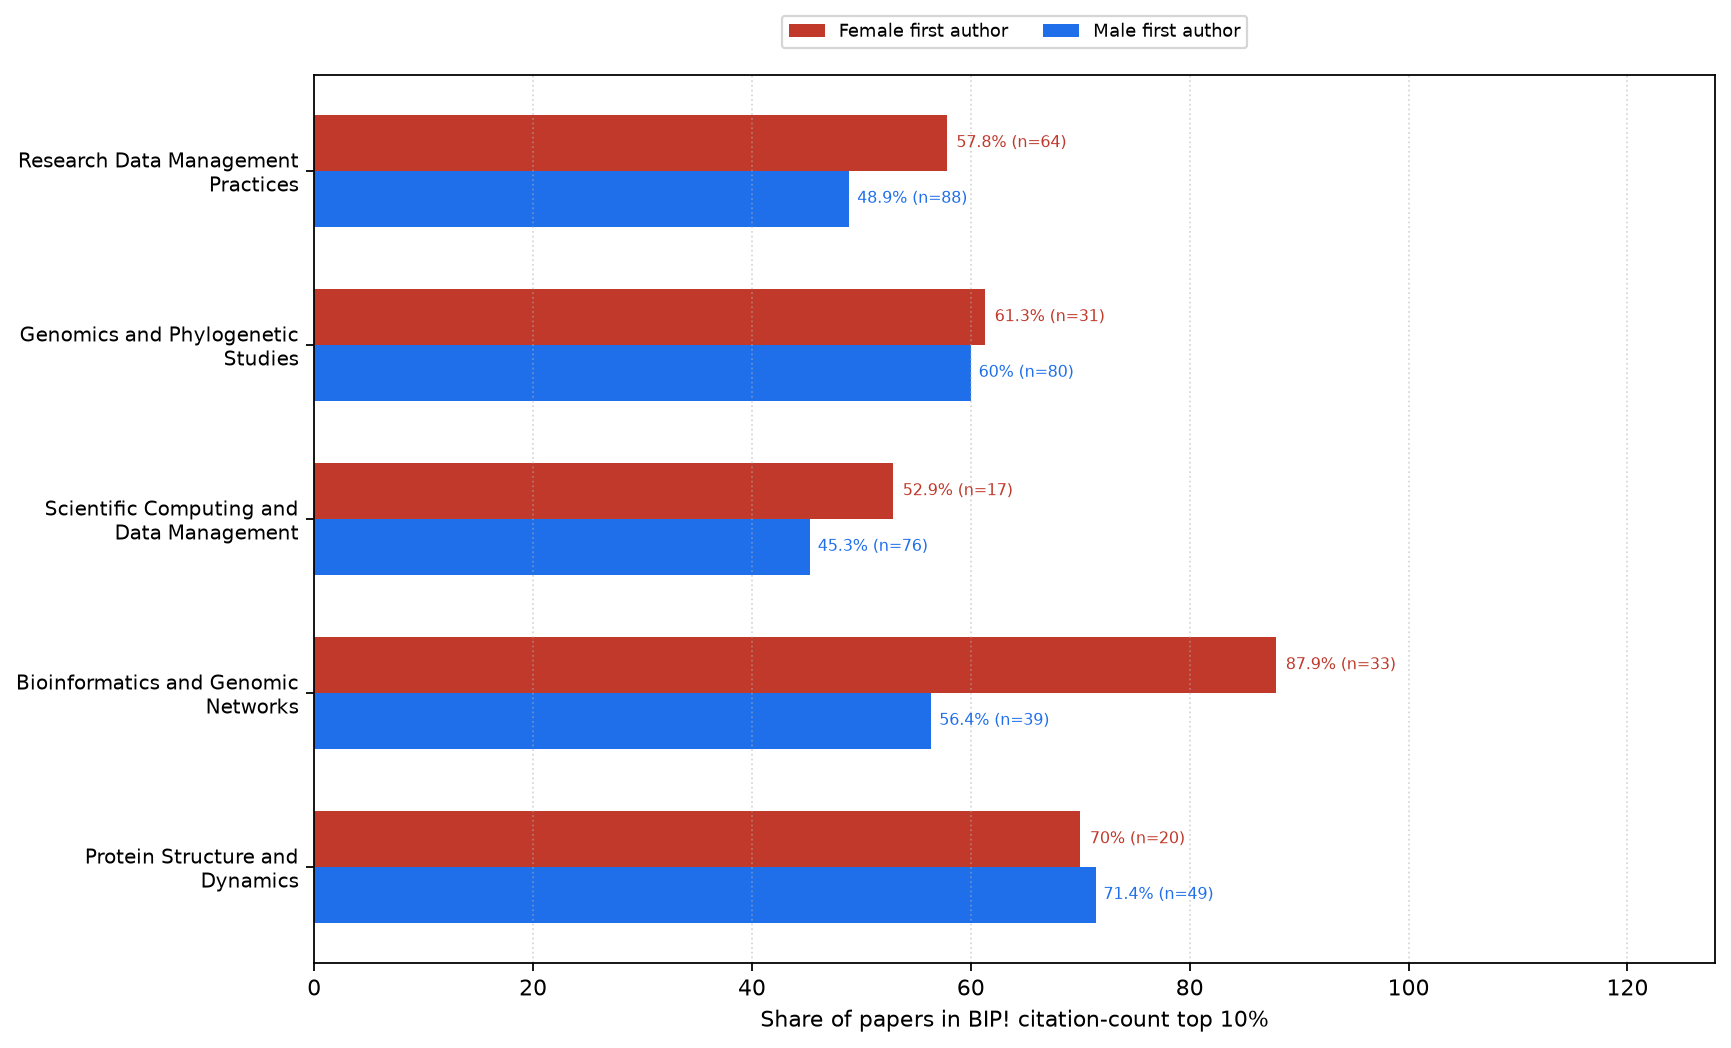
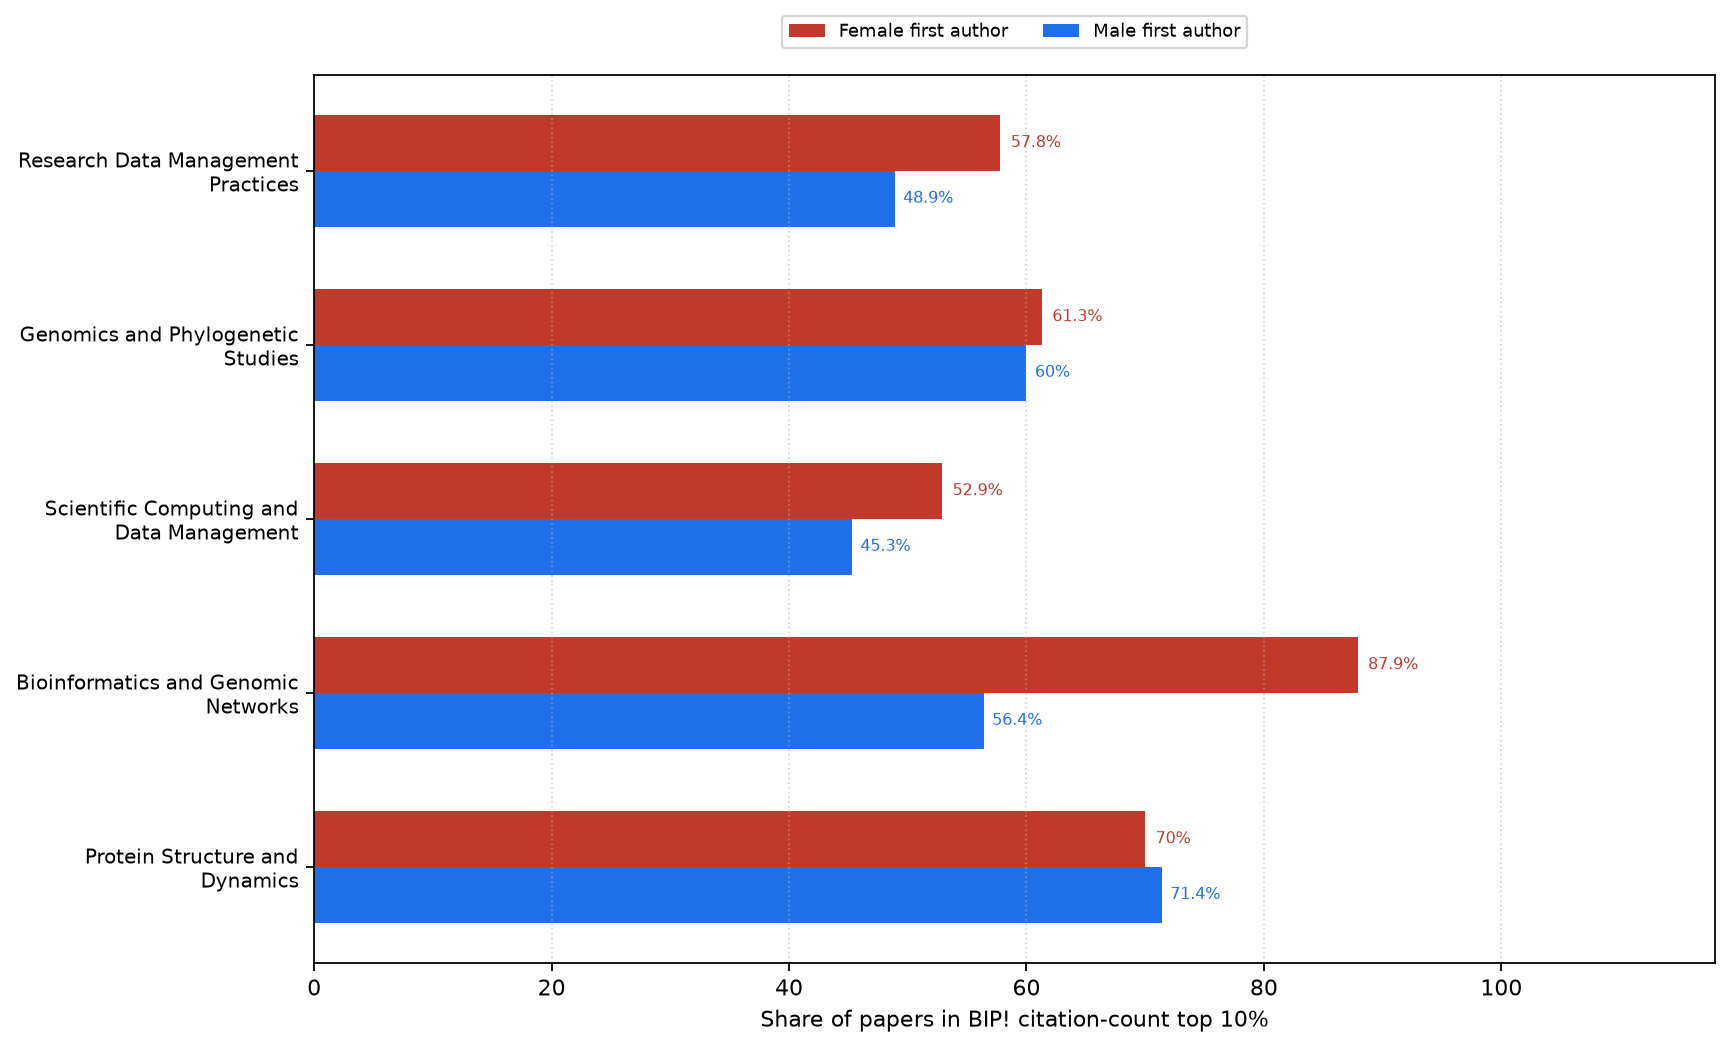
Drop sample-size labels from gender BIP! indicator bars.
Keep subset sizes in the topics table so the bar axis stays a single statistic.

diff --git a/topic_analysis/scripts/compare_topic_gender_bip.py b/topic_analysis/scripts/compare_topic_gender_bip.py
@@ -147,19 +147,17 @@ def make_count_figures(count_rows: list[dict], topics: list[str], out_dir: Path)
     return paths
 
 
-def format_stat_annotation(stat: str, value: float, n: int) -> str:
-    """Value on the axis scale, plus paper count in parentheses (not on the axis)."""
+def format_stat_annotation(stat: str, value: float) -> str:
+    """Value on the axis scale (no sample size)."""
     if stat.startswith("pct_"):
-        val_s = f"{value:.0f}%" if float(value).is_integer() else f"{value:.1f}%"
-    elif stat.startswith("median_") and stat in {"median_impulse", "median_cc"}:
-        val_s = f"{value:.0f}" if float(value).is_integer() else f"{value:.1f}"
-    else:
-        val_s = f"{value:.3g}"
-    return f"{val_s} (n={n})"
+        return f"{value:.0f}%" if float(value).is_integer() else f"{value:.1f}%"
+    if stat.startswith("median_") and stat in {"median_impulse", "median_cc"}:
+        return f"{value:.0f}" if float(value).is_integer() else f"{value:.1f}"
+    return f"{value:.3g}"
 
 
 def make_indicator_bar_figures(stat_rows: list[dict], topics: list[str], out_dir: Path) -> list[Path]:
-    """Grouped bars: x = BIP! statistic; annotation = value + paper count n."""
+    """Grouped bars: x = BIP! statistic; annotation = value only."""
     import matplotlib.pyplot as plt
     import numpy as np
 
@@ -178,25 +176,23 @@ def make_indicator_bar_figures(stat_rows: list[dict], topics: list[str], out_dir
         y = np.arange(len(topics))
         for i, g in enumerate(GENDER_PLOT):
             vals = []
-            ns = []
             for topic in topics:
                 row = by_key.get((topic, g))
                 v = to_float(row.get(stat)) if row else None
-                n = int(row["n_papers"]) if row else 0
                 vals.append(0.0 if v is None else v)
-                ns.append(n)
             offset = (i - 0.5) * height
             bars = ax.barh(
                 y + offset, vals, height=height,
                 color=GENDER_COLORS[g], label=f"{g.capitalize()} first author",
             )
-            for bar, v, n in zip(bars, vals, ns):
-                if n <= 0:
+            for j, (bar, v) in enumerate(zip(bars, vals)):
+                row = by_key.get((topics[j], g))
+                if not row or int(row["n_papers"]) <= 0:
                     continue
                 ax.text(
-                    bar.get_width() + max(vals) * 0.01,
+                    bar.get_width() + max(vals + [1]) * 0.01,
                     bar.get_y() + bar.get_height() / 2,
-                    format_stat_annotation(stat, v, n),
+                    format_stat_annotation(stat, v),
                     va="center", fontsize=7, color=GENDER_COLORS[g],
                 )
         ax.set_yticks(y)
@@ -205,16 +201,15 @@ def make_indicator_bar_figures(stat_rows: list[dict], topics: list[str], out_dir
         ax.set_xlabel(label)
         ax.grid(axis="x", linestyle=":", alpha=0.5)
         ax.legend(loc="lower center", bbox_to_anchor=(0.5, 1.02), ncol=2, fontsize=8, frameon=True)
-        # room for "value (n=…)" annotations to the right of bars
         data_max = max(
             (to_float(by_key[(t, g)].get(stat)) or 0.0)
             for t in topics for g in GENDER_PLOT
             if (t, g) in by_key
         )
         if stat.startswith("pct_"):
-            ax.set_xlim(0, max(100, data_max) * 1.28)
+            ax.set_xlim(0, max(100, data_max) * 1.18)
         else:
-            ax.set_xlim(0, (data_max * 1.28) if data_max > 0 else 1)
+            ax.set_xlim(0, (data_max * 1.18) if data_max > 0 else 1)
         fig.tight_layout()
         path = out_dir / f"bars_{stat}.png"
         fig.savefig(path, dpi=160, bbox_inches="tight")
@@ -288,11 +283,10 @@ def write_report(
         "## BIP! indicator figures",
         "",
         "Grouped bars compare female vs male first-author subsets within each "
-        "topic. The **bar length / x-axis** is the BIP! statistic. The label "
-        "next to each bar shows that same value plus **n = number of papers** "
-        "in that gender×topic subset (sample size used to compute the "
-        "statistic — not an x-axis quantity). Unknown-gender papers are "
-        "excluded from these plots.",
+        "topic. The **bar length / x-axis** is the BIP! statistic; the label "
+        "next to each bar repeats that value. Unknown-gender papers are "
+        "excluded from these plots (subset sizes are in the topics table "
+        "above).",
         "",
     ]
     for p in bar_figs:

diff --git a/topic_analysis/results/topic_gender_report.md b/topic_analysis/results/topic_gender_report.md
@@ -34,31 +34,31 @@ Paper counts and percentage shares by first-author gender within each topic (unk
 
 ## BIP! indicator figures
 
-Grouped bars compare female vs male first-author subsets within each topic. The **bar length / x-axis** is the BIP! statistic. The label next to each bar shows that same value plus **n = number of papers** in that gender×topic subset (sample size used to compute the statistic — not an x-axis quantity). Unknown-gender papers are excluded from these plots.
-
-### Median BIP! citation count
-
-![Median BIP! citation count](topic_gender_figures/bars_median_cc.png)
+Grouped bars compare female vs male first-author subsets within each topic. The **bar length / x-axis** is the BIP! statistic; the label next to each bar repeats that value. Unknown-gender papers are excluded from these plots (subset sizes are in the topics table above).
 
 ### Median BIP! impulse (3-year citation count)
 
 ![Median BIP! impulse (3-year citation count)](topic_gender_figures/bars_median_impulse.png)
 
-### Share of papers in BIP! citation-count top 10%
+### Median BIP! citation count
 
-![Share of papers in BIP! citation-count top 10%](topic_gender_figures/bars_pct_cc_top10.png)
+![Median BIP! citation count](topic_gender_figures/bars_median_cc.png)
 
-### Share of papers in BIP! impulse top 10%
+### Share of papers in BIP! popularity top 10%
 
-![Share of papers in BIP! impulse top 10%](topic_gender_figures/bars_pct_imp_top10.png)
+![Share of papers in BIP! popularity top 10%](topic_gender_figures/bars_pct_pop_top10.png)
 
 ### Share of papers in BIP! influence top 10%
 
 ![Share of papers in BIP! influence top 10%](topic_gender_figures/bars_pct_inf_top10.png)
 
-### Share of papers in BIP! popularity top 10%
+### Share of papers in BIP! impulse top 10%
 
-![Share of papers in BIP! popularity top 10%](topic_gender_figures/bars_pct_pop_top10.png)
+![Share of papers in BIP! impulse top 10%](topic_gender_figures/bars_pct_imp_top10.png)
+
+### Share of papers in BIP! citation-count top 10%
+
+![Share of papers in BIP! citation-count top 10%](topic_gender_figures/bars_pct_cc_top10.png)
 
 ## Per-topic gender BIP! stats
 
@@ -75,4 +75,4 @@ Grouped bars compare female vs male first-author subsets within each topic. The 
 | Protein Structure and Dynamics | female | 20 | 11 | 15.5 | 95.0 | 40.0 | 80.0 | 70.0 |
 | Protein Structure and Dynamics | male | 49 | 16 | 28 | 85.7 | 63.3 | 77.6 | 71.4 |
 
-_Generated 2026-11-12 13:33 UTC_
+_Generated 2026-11-12 13:49 UTC_

diff --git a/topic_analysis/README.md b/topic_analysis/README.md
@@ -94,5 +94,4 @@ python scripts/compare_topic_gender_bip.py --top 5
 | `results/topic_gender_report.md` | Coverage, figures, and stats table |
 
 Unknown = unmatched consortia, missing authors, or `not retrievable` names.
-BIP! indicator bars use female vs male only: bar length is the statistic;
-`(n=…)` is the paper count in that subset.
+BIP! indicator bars use female vs male only (bar length = statistic).
